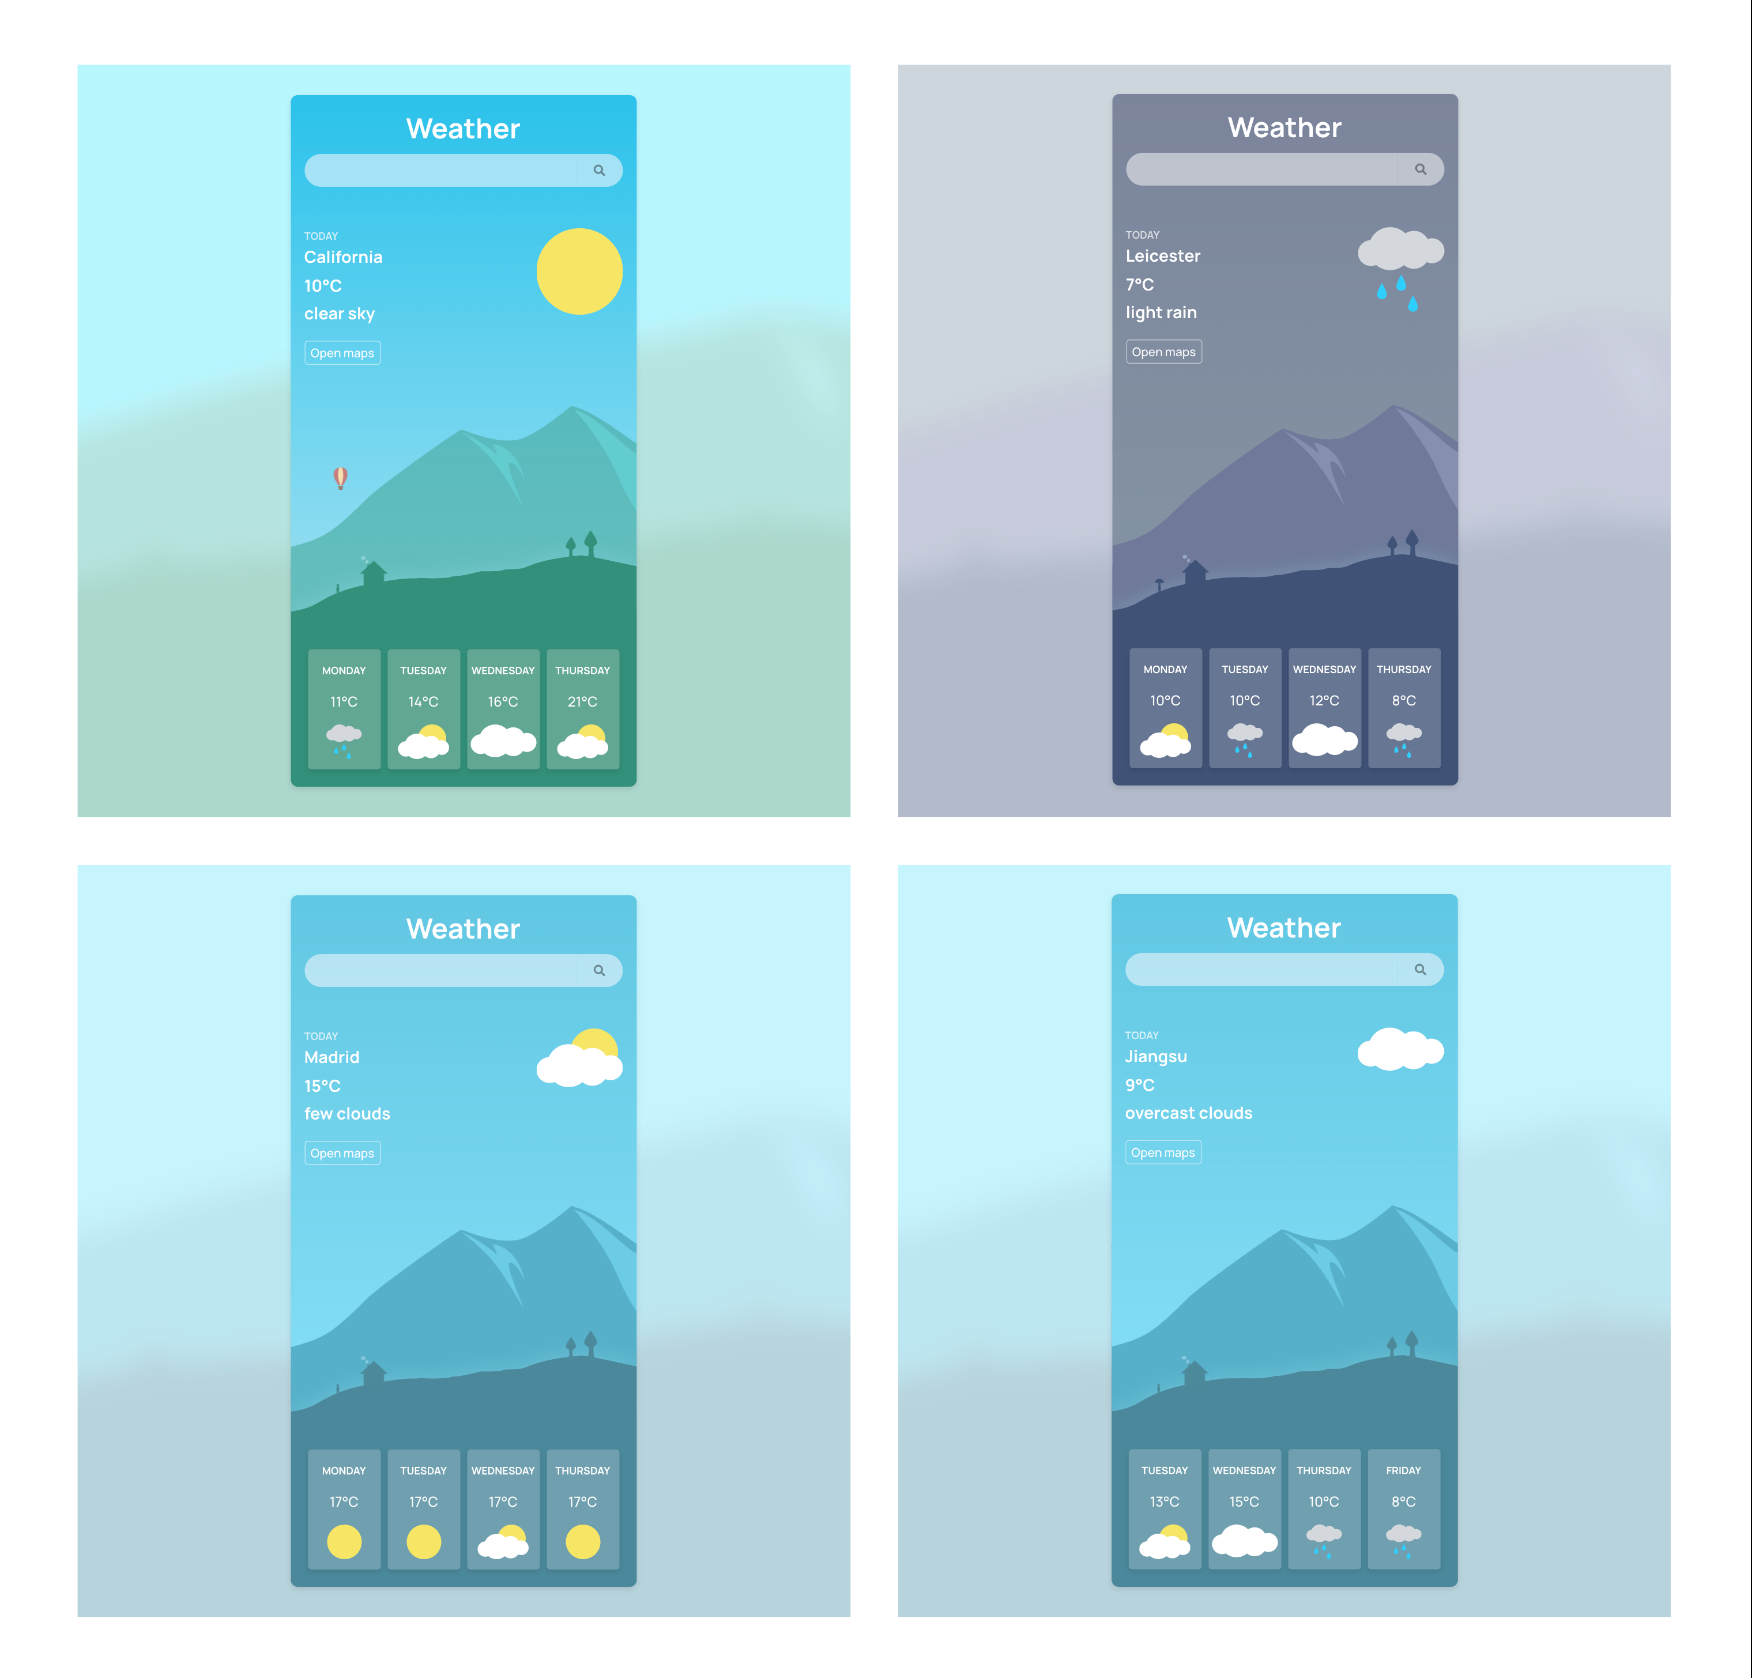
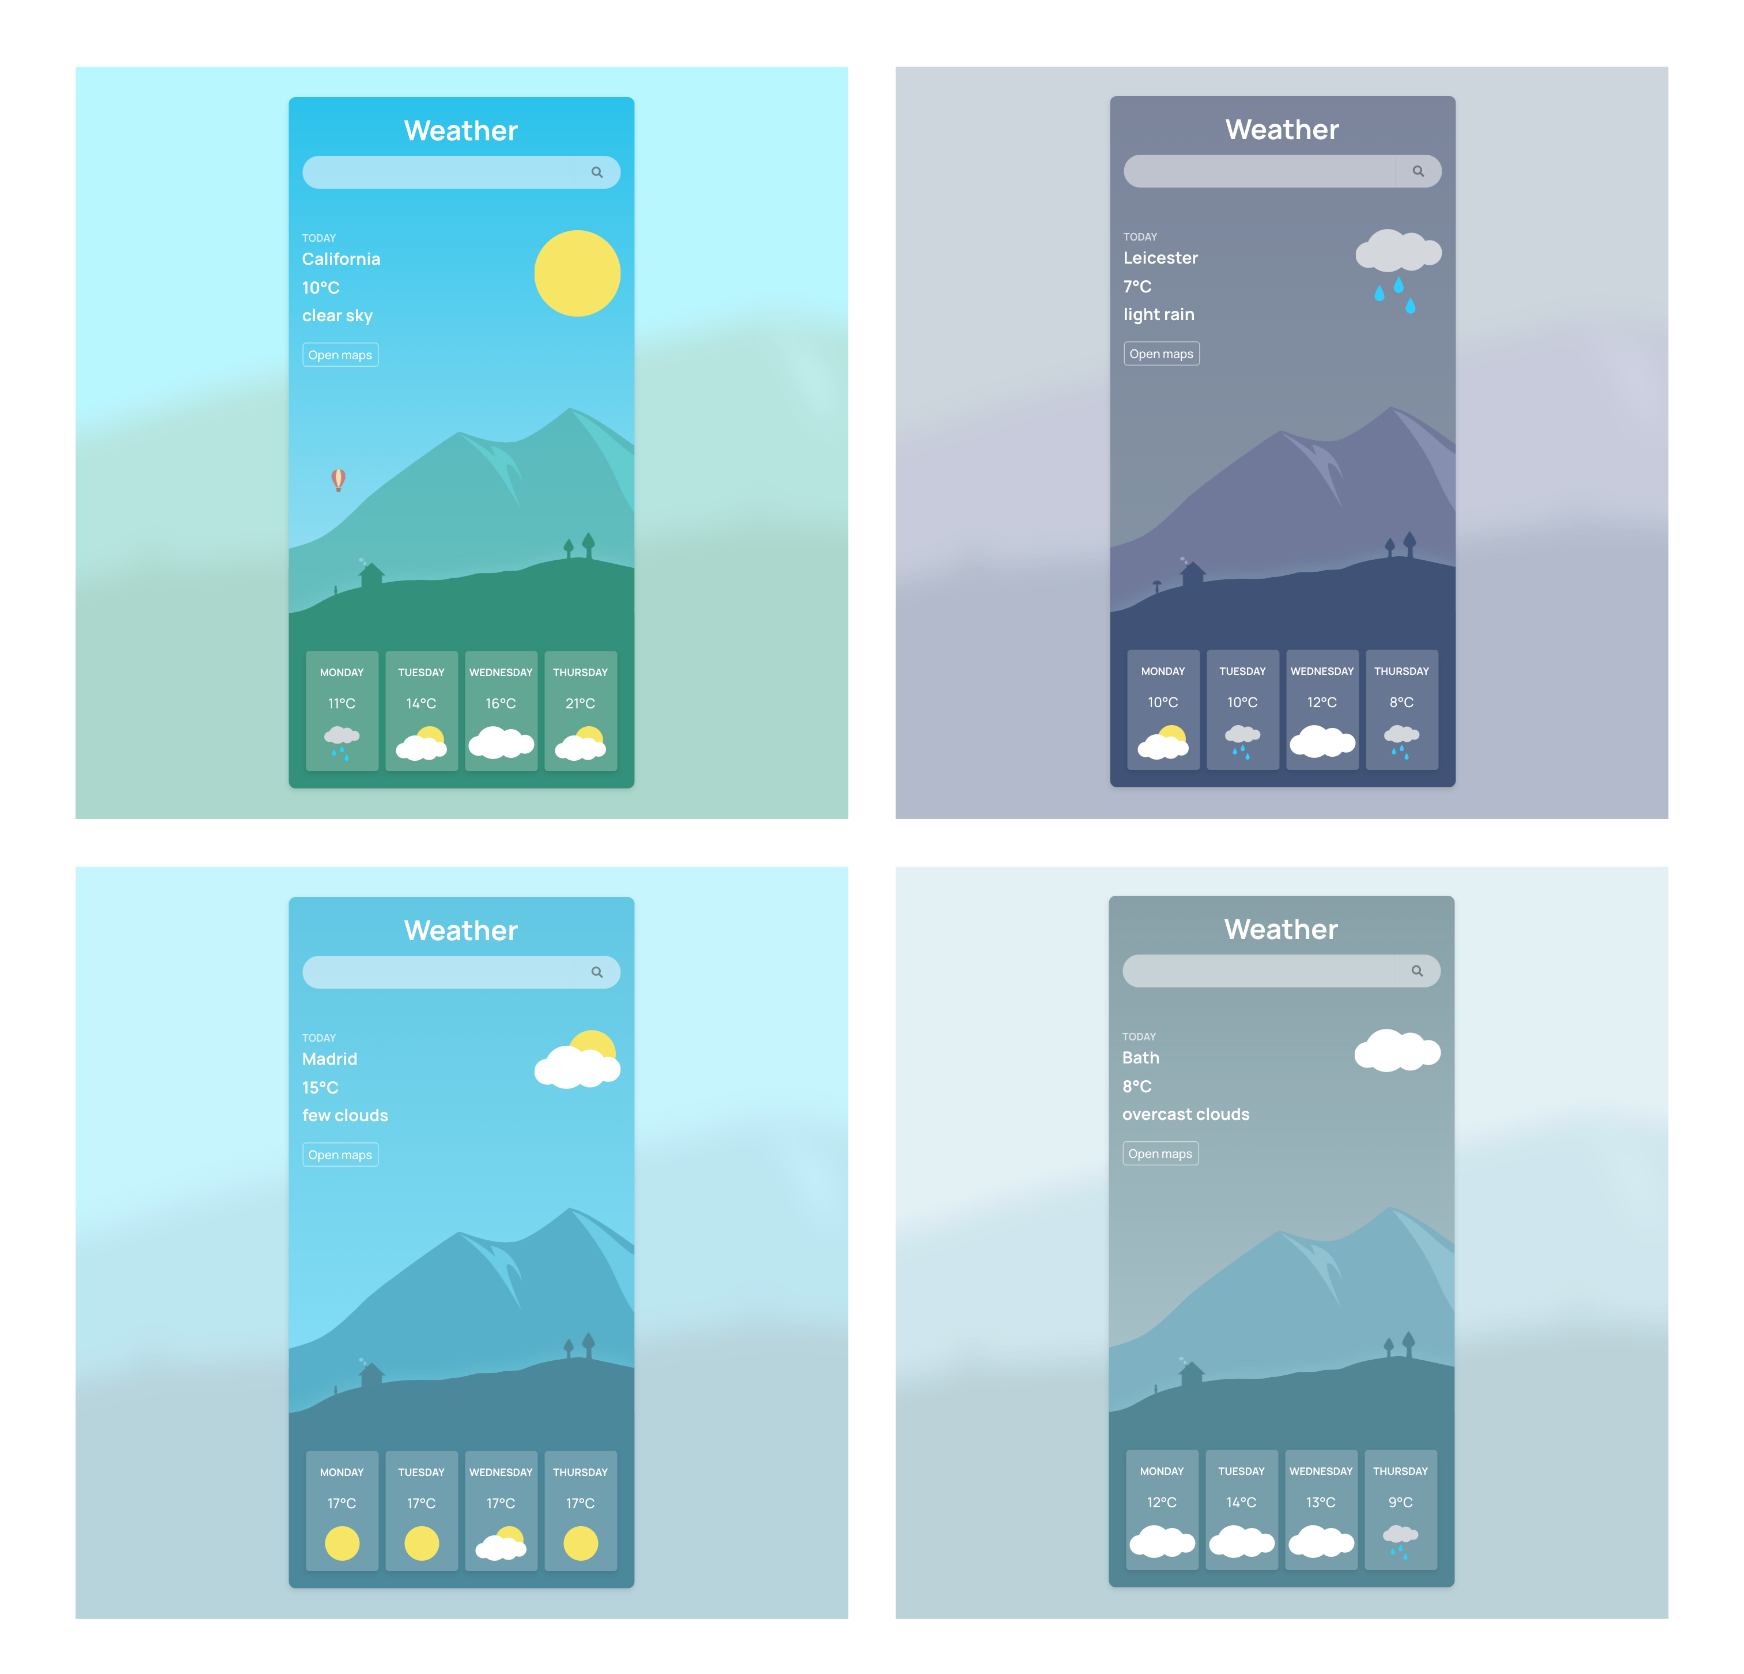
fixed cloudy image

diff --git a/src/App.css b/src/App.css
@@ -57,9 +57,9 @@ body {
     .app.weather-801 .main-container, .app.weather-802 .main-container {
       background-image: url("images/bg-partly-cloudy.svg"); }
   .app.weather-803, .app.weather-804 {
-    background-image: url("images/partly-cloudy-blur.png"); }
+    background-image: url("images/cloudy-blur.png"); }
     .app.weather-803 .main-container, .app.weather-804 .main-container {
-      background-image: url("images/bg-partly-cloudy.svg"); }
+      background-image: url("images/bg-cloudy.svg"); }
   .app.weather-800 {
     background-image: url("images/sunny-blur.png"); }
     .app.weather-800 .main-container {

diff --git a/src/App.scss b/src/App.scss
@@ -72,9 +72,9 @@ body {
 	}
 	&.weather-803,
 	&.weather-804 {
-		background-image: url('images/partly-cloudy-blur.png');
+		background-image: url('images/cloudy-blur.png');
 		.main-container {
-			background-image: url('images/bg-partly-cloudy.svg');
+			background-image: url('images/bg-cloudy.svg');
 		}
 	}
 	&.weather-800 {
